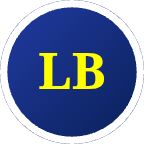
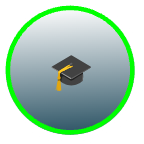
APK v1.0 (Mini SK)

diff --git a/hub.html b/hub.html
@@ -6,7 +6,7 @@
   <meta name="viewport" content="width=device-width, initial-scale=1, viewport-fit=cover">
   <title>Assistente-Juridico-modular-12-11-I</title>
   <style>
-    :root{--bg:#f4f6fb;--card:#ffffff;--line:#dde3ef;--tx:#1d2433;--mut:#6b7488;--acc:#3b6cf6}
+    :root{--bg:#0f1420;--card:#171e30;--line:#263048;--tx:#e6ebf5;--mut:#8a96b0;--acc:#4f8cff}
     *{box-sizing:border-box}body{margin:0;background:var(--bg);color:var(--tx);font:15px/1.4 system-ui,-apple-system,"Segoe UI",Roboto,sans-serif;padding:env(safe-area-inset-top) 0 24px}
     header{position:sticky;top:0;background:var(--bg);padding:16px 16px 10px;z-index:2;border-bottom:1px solid var(--line);text-align:center}
     .logo{width:72px;height:72px;border-radius:50%;margin:0 auto 10px;display:grid;place-items:center;background:var(--acc);color:var(--bg);font:bold 34px Georgia,serif;box-shadow:0 0 30px color-mix(in srgb,var(--acc) 35%,transparent);border:2px solid #fff}
@@ -29,7 +29,7 @@
   </style>
   <!-- PWA:inicio (gerado pelo Mini SK — pode refazer no painel 📱 PWA) -->
   <link rel="manifest" href="hub.webmanifest">
-  <meta name="theme-color" content="#3b6cf6">
+  <meta name="theme-color" content="#0f1420">
   <meta name="mobile-web-app-capable" content="yes">
   <meta name="apple-mobile-web-app-capable" content="yes">
   <meta name="apple-mobile-web-app-status-bar-style" content="black-translucent">

diff --git a/index.html b/index.html
@@ -7,11 +7,11 @@
 <link rel="stylesheet" href="css/app.css">
   <!-- PWA:inicio (gerado pelo Mini SK — pode refazer no painel 📱 PWA) -->
   <link rel="manifest" href="manifest.json">
-  <meta name="theme-color" content="#ffffff">
+  <meta name="theme-color" content="#00ff00">
   <meta name="mobile-web-app-capable" content="yes">
   <meta name="apple-mobile-web-app-capable" content="yes">
   <meta name="apple-mobile-web-app-status-bar-style" content="black-translucent">
-  <meta name="apple-mobile-web-app-title" content="Jurídico">
+  <meta name="apple-mobile-web-app-title" content="Assistente-J">
   <link rel="icon" href="favicon.ico" sizes="any">
   <link rel="icon" href="icons/icon.svg" type="image/svg+xml">
   <link rel="apple-touch-icon" href="icons/apple-touch-icon.png">

diff --git a/service-worker.js b/service-worker.js
@@ -1,7 +1,7 @@
-// service-worker.js — gerado pelo Mini SK em 12/11/2026, 18:10:44
+// service-worker.js — gerado pelo Mini SK em 14/11/2026, 02:38:42
 // Não precisa mexer: ele guarda sozinho o que o app usa.
 const PREFIXO = 'sk-assistente-juridico-modular-12-';
-const CACHE = PREFIXO + 'mwe1lai9';
+const CACHE = PREFIXO + 'mwfz6enp';
 // Lista feita automaticamente (para funcionar sem internet logo após instalar)
 const GUARDAR = [
   "./",
@@ -120,7 +120,6 @@ const GUARDAR = [
   "./manifest.json",
   "./per1.png",
   "./PLANO.md",
-  "./RECEITA.md",
   "./sw.js"
 ];
 

diff --git a/PLANO.md b/PLANO.md
@@ -1,19 +1,19 @@
 # 📋 Plano do projeto: Assistente-Juridico-modular-12-11-I
 
-_Gerado em 12/11/2026, 18:15:19 — sem IA, lendo os arquivos._
+_Gerado em 14/11/2026, 02:39:00 — sem IA, lendo os arquivos._
 
 ## 📊 Visão geral
 | Item | Valor |
 |---|---|
-| Arquivos | 120 |
-| Linhas | 16.859 |
+| Arquivos | 117 |
+| Linhas | 16.055 |
 | Telas/páginas | 16 |
 | Rotas do backend | 0 |
 | Chamadas do app | 3 |
 | Tabelas do banco | 0 |
 | Variáveis de ambiente | 3 |
 
-**Linguagens:** JavaScript (61), Imagem (20), HTML (16), Markdown (6), JSON (4), Outros (4), CSS (3), Python (2), Imagem SVG (2), YAML (1), Ícone (1)
+**Linguagens:** JavaScript (61), Imagem (20), HTML (16), Markdown (5), Outros (4), CSS (3), JSON (3), Python (2), Imagem SVG (2), Ícone (1)
 
 ## 💡 O que fazer (em ordem)
 1. 🧹 Tirar a Replit de 11 arquivo(s) (🏗 Preparar → Fazer tudo)
@@ -151,9 +151,6 @@ _Só os nomes. Os valores (chaves, senhas) nunca vão no código nem no GitHub._
 
 ## 🌳 Árvore de arquivos
 ```
-├─ 📁 .github/
-│  └─ 📁 workflows/
-│     └─ apk.yml
 ├─ 📁 css/
 │  └─ app.css
 ├─ 📁 ferramentas/
@@ -279,7 +276,6 @@ _Só os nomes. Os valores (chaves, senhas) nunca vão no código nem no GitHub._
 ├─ 📁 lib/
 │  ├─ jszip-LICENSE.md
 │  └─ jszip.min.js
-├─ apk.config.json
 ├─ favicon.ico
 ├─ hub.html
 ├─ hub.webmanifest
@@ -288,7 +284,6 @@ _Só os nomes. Os valores (chaves, senhas) nunca vão no código nem no GitHub._
 ├─ manifest.json
 ├─ per1.png
 ├─ PLANO.md
-├─ RECEITA.md
 ├─ service-worker.js
 └─ sw.js
 ```

diff --git a/RECEITA.md b/RECEITA.md
@@ -1,6 +1,6 @@
 # 🧬 Receita para recriar: Meu Chat
 
-_Gerada sem IA, lendo 120 arquivo(s). Serve para remontar este app como HTML modular — com qualquer IA, um arquivo por vez._
+_Gerada sem IA, lendo 117 arquivo(s). Serve para remontar este app como HTML modular — com qualquer IA, um arquivo por vez._
 
 ## 1. O que é
 
